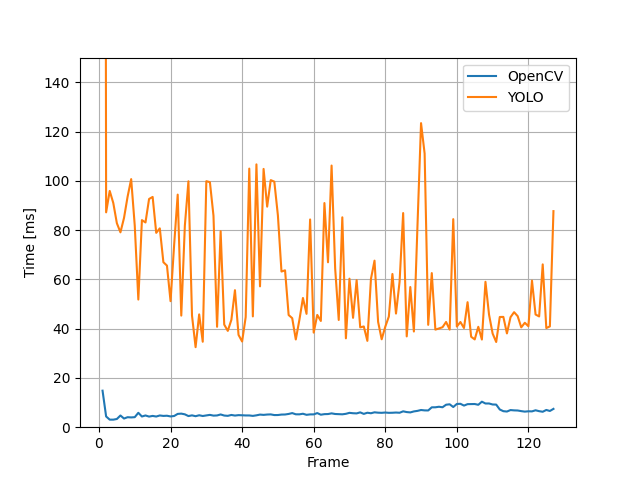
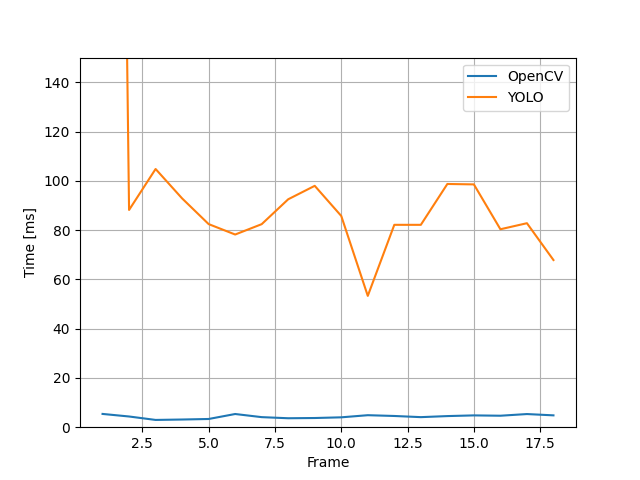
Zeitmessung Graph und Main Anpassungen

diff --git a/main.py b/main.py
@@ -1,4 +1,4 @@
-import cv2
+import cv2 as cv
 
 from project.GUI2 import *
 from project.functions_n import *
@@ -22,7 +22,7 @@ def main():
         timestamp = time.strftime("%Y%m%d-%H%M%S")
         write_video_path = f'resources/output{timestamp}.mp4'
         fourcc = cv.VideoWriter_fourcc(*'mp4v')
-        out = cv.VideoWriter(write_video_path, fourcc, 30.0, (1920, 1080))
+        out_cv_vid = cv.VideoWriter(write_video_path, fourcc, 30.0, (1920, 1080))
         times_stat = [[], []]
 
 
@@ -141,7 +141,7 @@ def main():
 
         end_time_cv = time.time()*1000  # Endzeit der Zeitmessung
         elapsed_time_cv = end_time_cv - start_time_cv # Dauer, die die Bildverarbeitung benötigt hat
-        if write_video == True:
+        if write_video:
             times_stat[0].append(elapsed_time_cv)
         frame = add_text_to_frame(frame, f'{elapsed_time_cv:.2f} ms/frame')
 
@@ -150,15 +150,15 @@ def main():
         frame_yolo, ins, out = yolo_regio(frame_y)
         end_time_yolo = time.time()*1000  # Endzeit der Zeitmessung
         elapsed_time_yolo = end_time_yolo - start_time_yolo
-        if write_video == True:
+        if write_video:
             times_stat[1].append(elapsed_time_yolo)
         frame_yolo = add_text_to_frame(frame_yolo, f'{elapsed_time_yolo:.2f} ms/frame')
 
         ##### Ausgabe von Bildern #####
         frame = video_tiling_mixed(frame, frame_yolo, width, height)
 
-
-        out.write(frame)  # Schreibt das Bild in das Video
+        if write_video:
+            out_cv_vid.write(frame)  # Schreibt das Bild in das Video
         cv.imshow('Frame', frame)
         #cv.imshow('Maske', e_img)
         #cv.imshow('Region of Interest', roi)
@@ -175,7 +175,9 @@ def main():
     end_time = time.time()  # Endzeit des Videos
     elapsed_time = end_time - start_time  # Dauer, die das Video abgespielt wurde
 
-    if write_video == True:
+
+    ###### Zeitmessung Graph Speichern######
+    if write_video:
         x_values = range(1, len(times_stat[0])+1)
         plt.plot(x_values, times_stat[0], label='OpenCV')
         plt.plot(x_values, times_stat[1], label='YOLO')
@@ -185,7 +187,7 @@ def main():
         plt.ylabel('Time [ms]')
         plt.legend()
         plt.savefig('resources/Zeitmessung.png')
-        out.release()
+        out_cv_vid.release()
 
 
     # Daten auswerten
